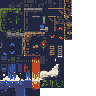
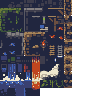
all tile variations

Changed region(s): [[0.6562, 0.4062, 0.75, 0.9375]]

diff --git a/game/main.js b/game/main.js
@@ -3,10 +3,6 @@ const HEIGHT_CANVAS = 600;
 
 const SIZE_TILE = 16;
 
-
-const ID_EMPTY = 0;
-const ID_DIRT = 1;
-
 const map_tile = {
 	"111111111": {frame: "solid", flipped: false},
 	"111111110": {frame: "solid", flipped: false},
@@ -74,68 +70,68 @@ const map_tile = {
 	"110010000": {frame: "overhangoverhang", flipped: false},
 	"101111111": {frame: "floor", flipped: false},
 	"101111110": {frame: "floor", flipped: false},
-	"101111101": {frame: "floor", flipped: false}, // TODO(shawn): need floor + ceiling
-	"101111100": {frame: "floor", flipped: false}, // TODO(shawn): need floor + ceiling
+	"101111101": {frame: "floorceiling", flipped: false},
+	"101111100": {frame: "floorceiling", flipped: false},
 	"101111011": {frame: "floor", flipped: false},
 	"101111010": {frame: "floor", flipped: false},
-	"101111001": {frame: "floor", flipped: false}, // TODO(shawn): need floor + ceiling
-	"101111000": {frame: "floor", flipped: false}, // TODO(shawn): need floor + ceiling
+	"101111001": {frame: "floorceiling", flipped: false},
+	"101111000": {frame: "floorceiling", flipped: false},
 	"101110111": {frame: "edge", flipped: true},
 	"101110110": {frame: "edge", flipped: true},
-	"101110101": {frame: "edge", flipped: true}, // TODO(shawn): need edge + overhang
-	"101110100": {frame: "edge", flipped: true}, // TODO(shawn): need edge + overhang
+	"101110101": {frame: "edgeoverhang", flipped: true},
+	"101110100": {frame: "edgeoverhang", flipped: true},
 	"101110011": {frame: "edge", flipped: true},
 	"101110010": {frame: "edge", flipped: true},
-	"101110001": {frame: "edge", flipped: true}, // TODO(shawn): need edge + overhang
-	"101110000": {frame: "edge", flipped: true}, // TODO(shawn): need edge + overhang
+	"101110001": {frame: "edgeoverhang", flipped: true},
+	"101110000": {frame: "edgeoverhang", flipped: true},
 	"101011111": {frame: "edge", flipped: false},
 	"101011110": {frame: "edge", flipped: false},
-	"101011101": {frame: "edge", flipped: false}, // TODO(shawn): need edge + overhang
-	"101011100": {frame: "edge", flipped: false}, // TODO(shawn): need edge + overhang
+	"101011101": {frame: "edgeoverhang", flipped: false},
+	"101011100": {frame: "edgeoverhang", flipped: false},
 	"101011011": {frame: "edge", flipped: false},
 	"101011010": {frame: "edge", flipped: false},
-	"101011001": {frame: "edge", flipped: false}, // TODO(shawn): need edge + overhang
-	"101011000": {frame: "edge", flipped: false}, // TODO(shawn): need edge + overhang
-	"101010111": {frame: "edge", flipped: false}, // TODO(shawn): need double sided edge
-	"101010110": {frame: "edge", flipped: false}, // TODO(shawn): need double sided edge
-	"101010101": {frame: "edge", flipped: false}, // TODO(shawn): need weird floating thing
-	"101010100": {frame: "edge", flipped: false}, // TODO(shawn): need weird floating thing
-	"101010011": {frame: "edge", flipped: false}, // TODO(shawn): need double sided edge
-	"101010010": {frame: "edge", flipped: false}, // TODO(shawn): need double sided edge
-	"101010001": {frame: "edge", flipped: false}, // TODO(shawn): need weird floating thing
-	"101010000": {frame: "edge", flipped: false}, // TODO(shawn): need weird floating thing
+	"101011001": {frame: "edgeoverhang", flipped: false},
+	"101011000": {frame: "edgeoverhang", flipped: false},
+	"101010111": {frame: "edgeedge", flipped: false},
+	"101010110": {frame: "edgeedge", flipped: false},
+	"101010101": {frame: "island", flipped: false},
+	"101010100": {frame: "island", flipped: false},
+	"101010011": {frame: "edgeedge", flipped: false},
+	"101010010": {frame: "edgeedge", flipped: false},
+	"101010001": {frame: "island", flipped: false},
+	"101010000": {frame: "island", flipped: false},
 	"100111111": {frame: "floor", flipped: false},
 	"100111110": {frame: "floor", flipped: false},
-	"100111101": {frame: "floor", flipped: false}, // TODO(shawn): need floor + ceiling
-	"100111100": {frame: "floor", flipped: false}, // TODO(shawn): need floor + ceiling
+	"100111101": {frame: "floorceiling", flipped: false},
+	"100111100": {frame: "floorceiling", flipped: false},
 	"100111011": {frame: "floor", flipped: false},
 	"100111010": {frame: "floor", flipped: false},
-	"100111001": {frame: "floor", flipped: false}, // TODO(shawn): need floor + ceiling
-	"100111000": {frame: "floor", flipped: false}, // TODO(shawn): need floor + ceiling
+	"100111001": {frame: "floorceiling", flipped: false},
+	"100111000": {frame: "floorceiling", flipped: false},
 	"100110111": {frame: "edge", flipped: true},
 	"100110110": {frame: "edge", flipped: true},
-	"100110101": {frame: "edge", flipped: true}, // TODO(shawn): need edge + overhang
-	"100110100": {frame: "edge", flipped: true}, // TODO(shawn): need edge + overhang
+	"100110101": {frame: "edgeoverhang", flipped: true},
+	"100110100": {frame: "edgeoverhang", flipped: true},
 	"100110011": {frame: "edge", flipped: true},
 	"100110010": {frame: "edge", flipped: true},
-	"100110001": {frame: "edge", flipped: true}, // TODO(shawn): need edge + overhang
-	"100110000": {frame: "edge", flipped: true}, // TODO(shawn): need edge + overhang
+	"100110001": {frame: "edgeoverhang", flipped: true},
+	"100110000": {frame: "edgeoverhang", flipped: true},
 	"100011111": {frame: "edge", flipped: false},
 	"100011110": {frame: "edge", flipped: false},
-	"100011101": {frame: "edge", flipped: false}, // TODO(shawn): need edge + overhang
-	"100011100": {frame: "edge", flipped: false}, // TODO(shawn): need edge + overhang
+	"100011101": {frame: "edgeoverhang", flipped: false},
+	"100011100": {frame: "edgeoverhang", flipped: false},
 	"100011011": {frame: "edge", flipped: false},
 	"100011010": {frame: "edge", flipped: false},
-	"100011001": {frame: "edge", flipped: false}, // TODO(shawn): need edge + overhang
-	"100011000": {frame: "edge", flipped: false}, // TODO(shawn): need edge + overhang
-	"100010111": {frame: "edge", flipped: false}, // TODO(shawn): need double sided edge
-	"100010110": {frame: "edge", flipped: false}, // TODO(shawn): need double sided edge
-	"100010101": {frame: "edge", flipped: false}, // TODO(shawn): need weird floating thing
-	"100010100": {frame: "edge", flipped: false}, // TODO(shawn): need weird floating thing
-	"100010011": {frame: "edge", flipped: false}, // TODO(shawn): need double sided edge
-	"100010010": {frame: "edge", flipped: false}, // TODO(shawn): need double sided edge
-	"100010001": {frame: "edge", flipped: false}, // TODO(shawn): need weird floating thing
-	"100010000": {frame: "edge", flipped: false}, // TODO(shawn): need weird floating thing
+	"100011001": {frame: "edgeoverhang", flipped: false},
+	"100011000": {frame: "edgeoverhang", flipped: false},
+	"100010111": {frame: "edgeedge", flipped: false},
+	"100010110": {frame: "edgeedge", flipped: false},
+	"100010101": {frame: "island", flipped: false},
+	"100010100": {frame: "island", flipped: false},
+	"100010011": {frame: "edgeedge", flipped: false},
+	"100010010": {frame: "edgeedge", flipped: false},
+	"100010001": {frame: "island", flipped: false},
+	"100010000": {frame: "island", flipped: false},
 	"011111111": {frame: "corner", flipped: false},
 	"011111110": {frame: "corner", flipped: false},
 	"011111101": {frame: "cornerceiling", flipped: false},
@@ -168,105 +164,105 @@ const map_tile = {
 	"011010010": {frame: "wallwall", flipped: false},
 	"011010001": {frame: "overhangoverhang", flipped: false},
 	"011010000": {frame: "overhangoverhang", flipped: false},
-	"010111111": {frame: "corner", flipped: false}, // TODO(shawn): need double sided corner
-	"010111110": {frame: "corner", flipped: false}, // TODO(shawn): need double sided corner
-	"010111101": {frame: "corner", flipped: false}, // TODO(shawn): need double sided corner + ceiling
-	"010111100": {frame: "corner", flipped: false}, // TODO(shawn): need double sided corner + ceiling
-	"010111011": {frame: "corner", flipped: false}, // TODO(shawn): need double sided corner
-	"010111010": {frame: "corner", flipped: false}, // TODO(shawn): need double sided corner
-	"010111001": {frame: "corner", flipped: false}, // TODO(shawn): need double sided corner + ceiling
-	"010111000": {frame: "corner", flipped: false}, // TODO(shawn): need double sided corner + ceiling
-	"010110111": {frame: "wall", flipped: true}, // TODO(shawn): need corner + wall
-	"010110110": {frame: "wall", flipped: true}, // TODO(shawn): need corner + wall
-	"010110101": {frame: "overhang", flipped: true}, // TODO(shawn): need corner + overhang
-	"010110100": {frame: "overhang", flipped: true}, // TODO(shawn): need corner + overhang
-	"010110011": {frame: "wall", flipped: true}, // TODO(shawn): need corner + wall
-	"010110010": {frame: "wall", flipped: true}, // TODO(shawn): need corner + wall
-	"010110001": {frame: "overhang", flipped: true}, // TODO(shawn): need corner + overhang
-	"010110000": {frame: "overhang", flipped: true}, // TODO(shawn): need corner + overhang
-	"010011111": {frame: "wall", flipped: false}, // TODO(shawn): need corner + wall
-	"010011110": {frame: "wall", flipped: false}, // TODO(shawn): need corner + wall
-	"010011101": {frame: "overhang", flipped: false}, // TODO(shawn): need corner + overhang
-	"010011100": {frame: "overhang", flipped: false}, // TODO(shawn): need corner + overhang
-	"010011011": {frame: "wall", flipped: false}, // TODO(shawn): need corner + wall
-	"010011010": {frame: "wall", flipped: false}, // TODO(shawn): need corner + wall
-	"010011001": {frame: "overhang", flipped: false}, // TODO(shawn): need corner + overhang
-	"010011000": {frame: "overhang", flipped: false}, // TODO(shawn): need corner + overhang
-	"010010111": {frame: "wall", flipped: false}, // TODO(shawn): need double sided wall
-	"010010110": {frame: "wall", flipped: false}, // TODO(shawn): need double sided wall
-	"010010101": {frame: "overhang", flipped: false}, // TODO(shawn): need double sided overhang
-	"010010100": {frame: "overhang", flipped: false}, // TODO(shawn): need double sided overhang
-	"010010011": {frame: "wall", flipped: false}, // TODO(shawn): need double sided wall
-	"010010010": {frame: "wall", flipped: false}, // TODO(shawn): need double sided wall
-	"010010001": {frame: "overhang", flipped: false}, // TODO(shawn): need double sided overhang
-	"010010000": {frame: "overhang", flipped: false}, // TODO(shawn): need double sided overhang
+	"010111111": {frame: "corners", flipped: false},
+	"010111110": {frame: "corners", flipped: false},
+	"010111101": {frame: "cornersceiling", flipped: false},
+	"010111100": {frame: "cornersceiling", flipped: false},
+	"010111011": {frame: "corners", flipped: false},
+	"010111010": {frame: "corners", flipped: false},
+	"010111001": {frame: "cornersceiling", flipped: false},
+	"010111000": {frame: "cornersceiling", flipped: false},
+	"010110111": {frame: "cornerwall", flipped: true},
+	"010110110": {frame: "cornerwall", flipped: true},
+	"010110101": {frame: "corneroverhang", flipped: true},
+	"010110100": {frame: "corneroverhang", flipped: true},
+	"010110011": {frame: "cornerwall", flipped: true},
+	"010110010": {frame: "cornerwall", flipped: true},
+	"010110001": {frame: "corneroverhang", flipped: true},
+	"010110000": {frame: "corneroverhang", flipped: true},
+	"010011111": {frame: "cornerwall", flipped: false},
+	"010011110": {frame: "cornerwall", flipped: false},
+	"010011101": {frame: "corneroverhang", flipped: false},
+	"010011100": {frame: "corneroverhang", flipped: false},
+	"010011011": {frame: "cornerwall", flipped: false},
+	"010011010": {frame: "cornerwall", flipped: false},
+	"010011001": {frame: "corneroverhang", flipped: false},
+	"010011000": {frame: "corneroverhang", flipped: false},
+	"010010111": {frame: "wallwall", flipped: false},
+	"010010110": {frame: "wallwall", flipped: false},
+	"010010101": {frame: "overhangoverhang", flipped: false},
+	"010010100": {frame: "overhangoverhang", flipped: false},
+	"010010011": {frame: "wallwall", flipped: false},
+	"010010010": {frame: "wallwall", flipped: false},
+	"010010001": {frame: "overhangoverhang", flipped: false},
+	"010010000": {frame: "overhangoverhang", flipped: false},
 	"001111111": {frame: "floor", flipped: false},
 	"001111110": {frame: "floor", flipped: false},
-	"001111101": {frame: "floor", flipped: false}, // TODO(shawn): need floor + ceiling
-	"001111100": {frame: "floor", flipped: false}, // TODO(shawn): need floor + ceiling
+	"001111101": {frame: "floorceiling", flipped: false},
+	"001111100": {frame: "floorceiling", flipped: false},
 	"001111011": {frame: "floor", flipped: false},
 	"001111010": {frame: "floor", flipped: false},
-	"001111001": {frame: "floor", flipped: false}, // TODO(shawn): need floor + ceiling
-	"001111000": {frame: "floor", flipped: false}, // TODO(shawn): need floor + ceiling
+	"001111001": {frame: "floorceiling", flipped: false},
+	"001111000": {frame: "floorceiling", flipped: false},
 	"001110111": {frame: "edge", flipped: true},
 	"001110110": {frame: "edge", flipped: true},
-	"001110101": {frame: "edge", flipped: true}, // TODO(shawn): need edge + overhang
-	"001110100": {frame: "edge", flipped: true}, // TODO(shawn): need edge + overhang
+	"001110101": {frame: "edgeoverhang", flipped: true},
+	"001110100": {frame: "edgeoverhang", flipped: true},
 	"001110011": {frame: "edge", flipped: true},
 	"001110010": {frame: "edge", flipped: true},
-	"001110001": {frame: "edge", flipped: true}, // TODO(shawn): need edge + overhang
-	"001110000": {frame: "edge", flipped: true}, // TODO(shawn): need edge + overhang
+	"001110001": {frame: "edgeoverhang", flipped: true},
+	"001110000": {frame: "edgeoverhang", flipped: true},
 	"001011111": {frame: "edge", flipped: false},
 	"001011110": {frame: "edge", flipped: false},
-	"001011101": {frame: "edge", flipped: false}, // TODO(shawn): need edge + overhang
-	"001011100": {frame: "edge", flipped: false}, // TODO(shawn): need edge + overhang
+	"001011101": {frame: "edgeoverhang", flipped: false},
+	"001011100": {frame: "edgeoverhang", flipped: false},
 	"001011011": {frame: "edge", flipped: false},
 	"001011010": {frame: "edge", flipped: false},
-	"001011001": {frame: "edge", flipped: false}, // TODO(shawn): need edge + overhang
-	"001011000": {frame: "edge", flipped: false}, // TODO(shawn): need edge + overhang
-	"001010111": {frame: "edge", flipped: false}, // TODO(shawn): need double sided edge
-	"001010110": {frame: "edge", flipped: false}, // TODO(shawn): need double sided edge
-	"001010101": {frame: "edge", flipped: false}, // TODO(shawn): need weird floating thing
-	"001010100": {frame: "edge", flipped: false}, // TODO(shawn): need weird floating thing
-	"001010011": {frame: "edge", flipped: false}, // TODO(shawn): need double sided edge
-	"001010010": {frame: "edge", flipped: false}, // TODO(shawn): need double sided edge
-	"001010001": {frame: "edge", flipped: false}, // TODO(shawn): need weird floating thing
-	"001010000": {frame: "edge", flipped: false}, // TODO(shawn): need weird floating thing
+	"001011001": {frame: "edgeoverhang", flipped: false},
+	"001011000": {frame: "edgeoverhang", flipped: false},
+	"001010111": {frame: "edgeedge", flipped: false},
+	"001010110": {frame: "edgeedge", flipped: false},
+	"001010101": {frame: "island", flipped: false},
+	"001010100": {frame: "island", flipped: false},
+	"001010011": {frame: "edgeedge", flipped: false},
+	"001010010": {frame: "edgeedge", flipped: false},
+	"001010001": {frame: "island", flipped: false},
+	"001010000": {frame: "island", flipped: false},
 	"000111111": {frame: "floor", flipped: false},
 	"000111110": {frame: "floor", flipped: false},
-	"000111101": {frame: "floor", flipped: false}, // TODO(shawn): need floor + ceiling
-	"000111100": {frame: "floor", flipped: false}, // TODO(shawn): need floor + ceiling
+	"000111101": {frame: "floorceiling", flipped: false},
+	"000111100": {frame: "floorceiling", flipped: false},
 	"000111011": {frame: "floor", flipped: false},
 	"000111010": {frame: "floor", flipped: false},
-	"000111001": {frame: "floor", flipped: false}, // TODO(shawn): need floor + ceiling
-	"000111000": {frame: "floor", flipped: false}, // TODO(shawn): need floor + ceiling
+	"000111001": {frame: "floorceiling", flipped: false},
+	"000111000": {frame: "floorceiling", flipped: false},
 	"000110111": {frame: "edge", flipped: true},
 	"000110110": {frame: "edge", flipped: true},
-	"000110101": {frame: "edge", flipped: true}, // TODO(shawn): need edge + overhang
-	"000110100": {frame: "edge", flipped: true}, // TODO(shawn): need edge + overhang
+	"000110101": {frame: "edgeoverhang", flipped: true},
+	"000110100": {frame: "edgeoverhang", flipped: true},
 	"000110011": {frame: "edge", flipped: true},
 	"000110010": {frame: "edge", flipped: true},
-	"000110001": {frame: "edge", flipped: true}, // TODO(shawn): need edge + overhang
-	"000110000": {frame: "edge", flipped: true}, // TODO(shawn): need edge + overhang
+	"000110001": {frame: "edgeoverhang", flipped: true},
+	"000110000": {frame: "edgeoverhang", flipped: true},
 	"000011111": {frame: "edge", flipped: false},
 	"000011110": {frame: "edge", flipped: false},
-	"000011101": {frame: "edge", flipped: false}, // TODO(shawn): need edge + overhang
-	"000011100": {frame: "edge", flipped: false}, // TODO(shawn): need edge + overhang
+	"000011101": {frame: "edgeoverhang", flipped: false},
+	"000011100": {frame: "edgeoverhang", flipped: false},
 	"000011011": {frame: "edge", flipped: false},
 	"000011010": {frame: "edge", flipped: false},
-	"000011001": {frame: "edge", flipped: false}, // TODO(shawn): need edge + overhang
-	"000011000": {frame: "edge", flipped: false}, // TODO(shawn): need edge + overhang
-	"000010111": {frame: "edge", flipped: false}, // TODO(shawn): need double sided edge
-	"000010110": {frame: "edge", flipped: false}, // TODO(shawn): need double sided edge
-	"000010101": {frame: "edge", flipped: false}, // TODO(shawn): need weird floating thing
-	"000010100": {frame: "edge", flipped: false}, // TODO(shawn): need weird floating thing
-	"000010011": {frame: "edge", flipped: false}, // TODO(shawn): need double sided edge
-	"000010010": {frame: "edge", flipped: false}, // TODO(shawn): need double sided edge
-	"000010001": {frame: "edge", flipped: false}, // TODO(shawn): need weird floating thing
-	"000010000": {frame: "edge", flipped: false} // TODO(shawn): need weird floating thing
+	"000011001": {frame: "edgeoverhang", flipped: false},
+	"000011000": {frame: "edgeoverhang", flipped: false},
+	"000010111": {frame: "edgeedge", flipped: false},
+	"000010110": {frame: "edgeedge", flipped: false},
+	"000010101": {frame: "island", flipped: false},
+	"000010100": {frame: "island", flipped: false},
+	"000010011": {frame: "edgeedge", flipped: false},
+	"000010010": {frame: "edgeedge", flipped: false},
+	"000010001": {frame: "island", flipped: false},
+	"000010000": {frame: "island", flipped: false}
 };
 
-var energy_current = 10;
+let energy_current = 10;
 
 
 function getSurrounding(level, index_row, index_col)
@@ -465,8 +461,6 @@ document.addEventListener("DOMContentLoaded", function()
 
 	function dig(level, emitter, index_row, index_col)
 	{
-		console.log(index_row, index_col)
-		console.log(level.tiles[index_row][index_col])
 		if(!level.tiles[index_row][index_col])
 			return;
 
@@ -483,16 +477,16 @@ document.addEventListener("DOMContentLoaded", function()
 				const t = map_tile[surrounding];
 				const s = level.sprites[index_row_check][index_col_check];
 
-				s.setFrame(t === undefined ? "void" : t.frame);
-				if(t === undefined)
-					s.body.enable = false;
-				else if(t.flipped)
-					s.flipX = true;
+				if(t !== undefined)
+				{
+					s.setFrame(t.frame);
+					s.flipX = t.flipped;
+				}
 			}
 
 
 
-		energy_current--;
+		// energy_current--;
 		energy_display.setText( 'Energy:' + energy_current);
 		bar.scaleX = energy_current/energy_max;
 	}
